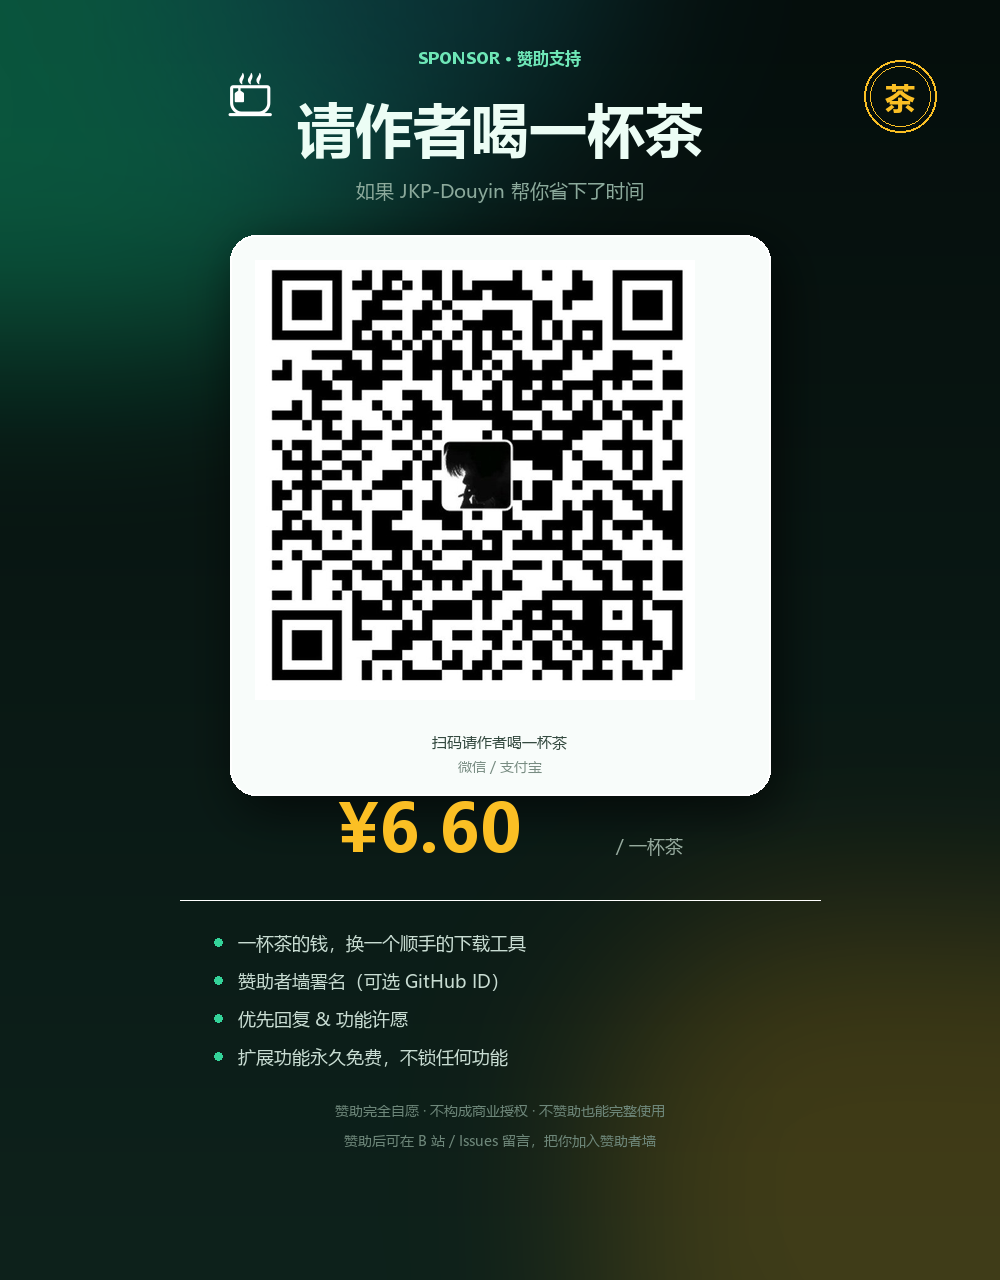
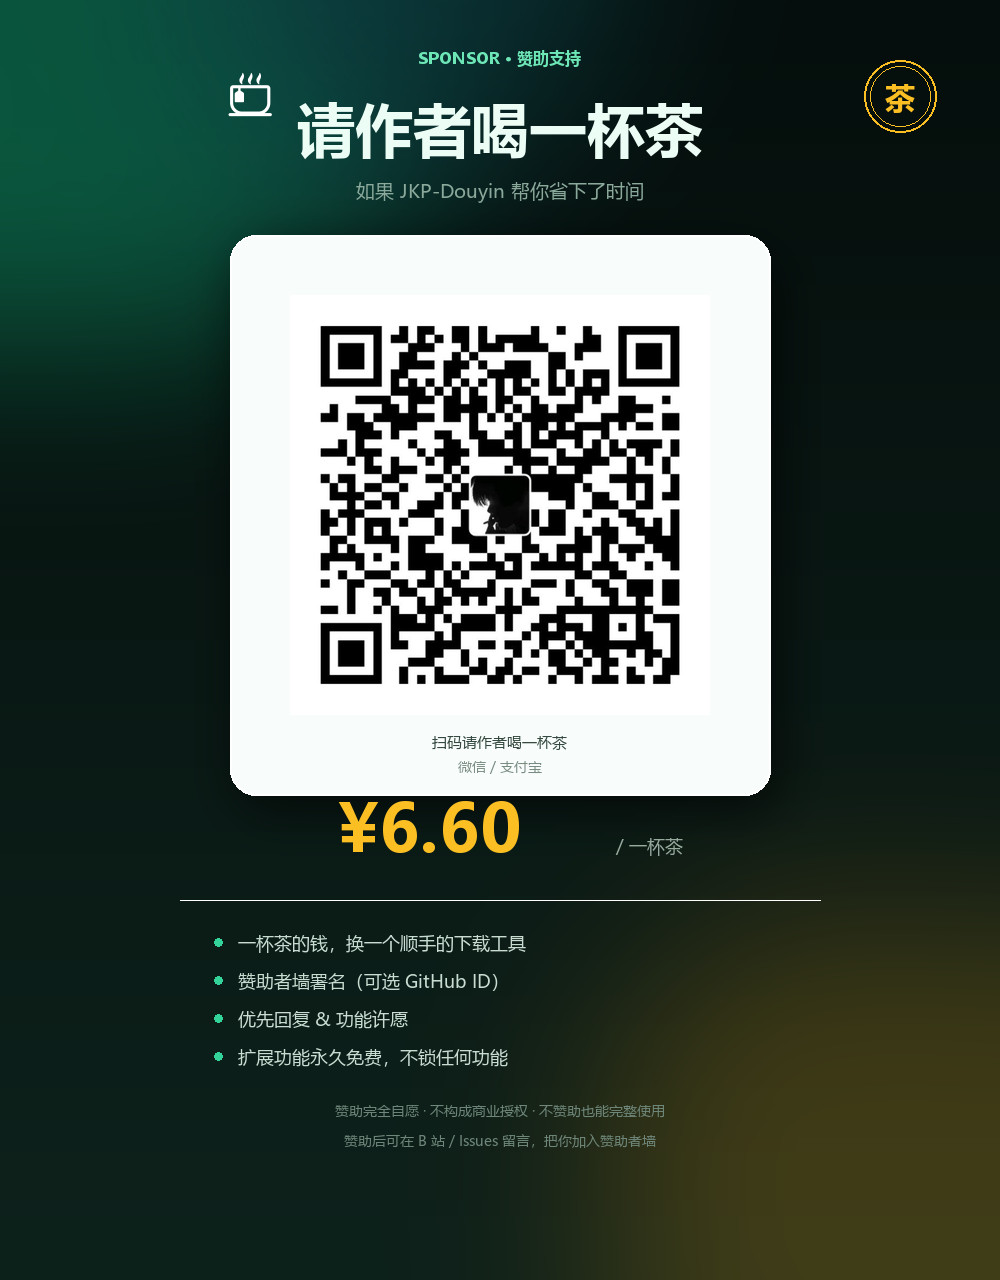
README：使用完整居中的二维码图（去掉底部金额与蓝边）

Changed region(s): [[0.248, 0.1875, 0.682, 0.5312]]

diff --git a/README.md b/README.md
@@ -307,7 +307,7 @@ Firefox : about:debugging#/runtime/this-firefox
 ## 🍵 赞助支持
 
 <div align="center">
-  <a href="https://github.com/XHazz1/JKP-Douyin/blob/main/docs/sponsor-qr.jpg">
+  <a href="https://github.com/XHazz1/JKP-Douyin/blob/main/docs/sponsor-qr.png">
     <img src="docs/sponsor-tea.png" width="78%" alt="请作者喝一杯茶" />
   </a>
   <br/>
